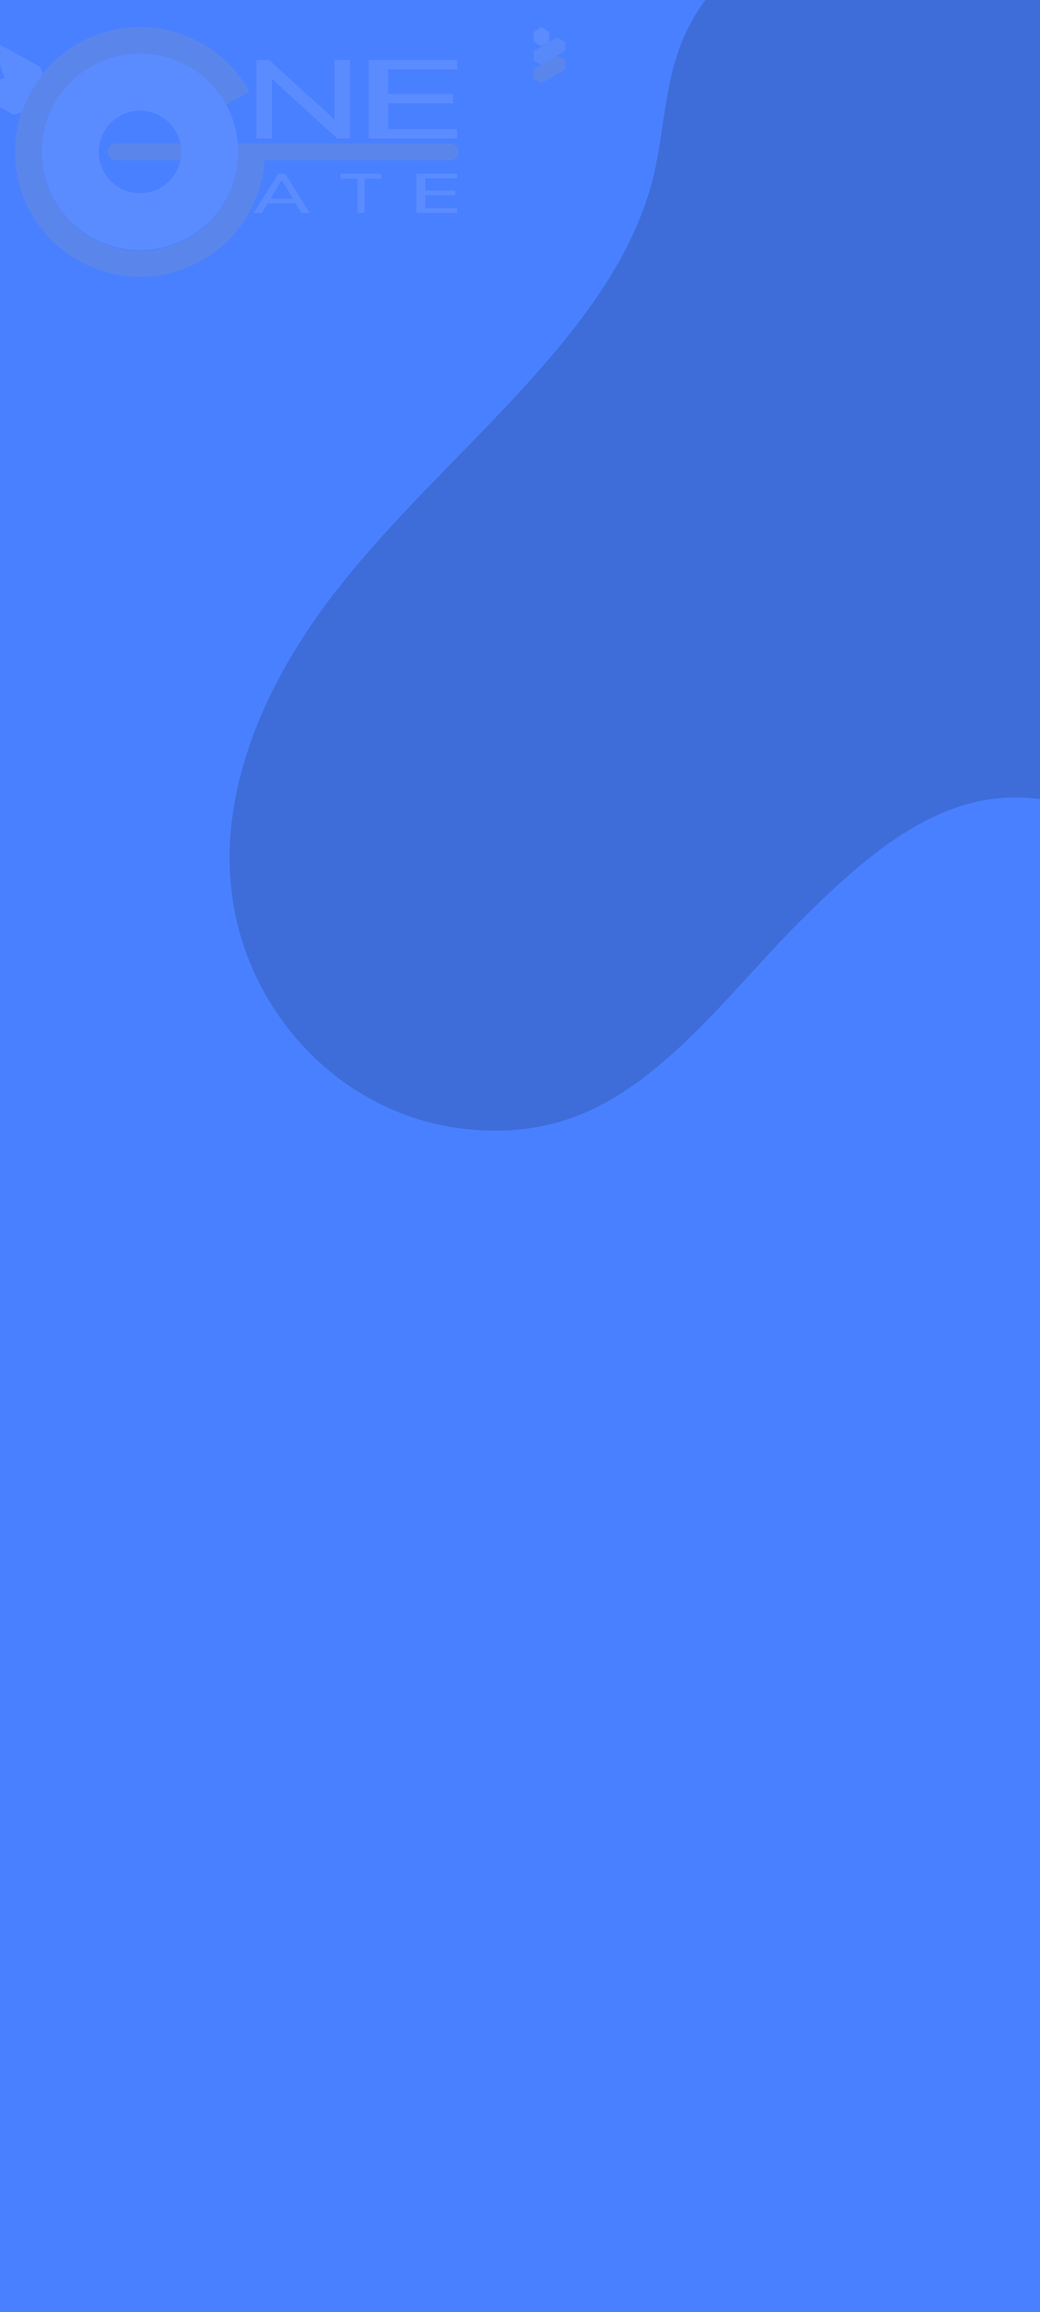
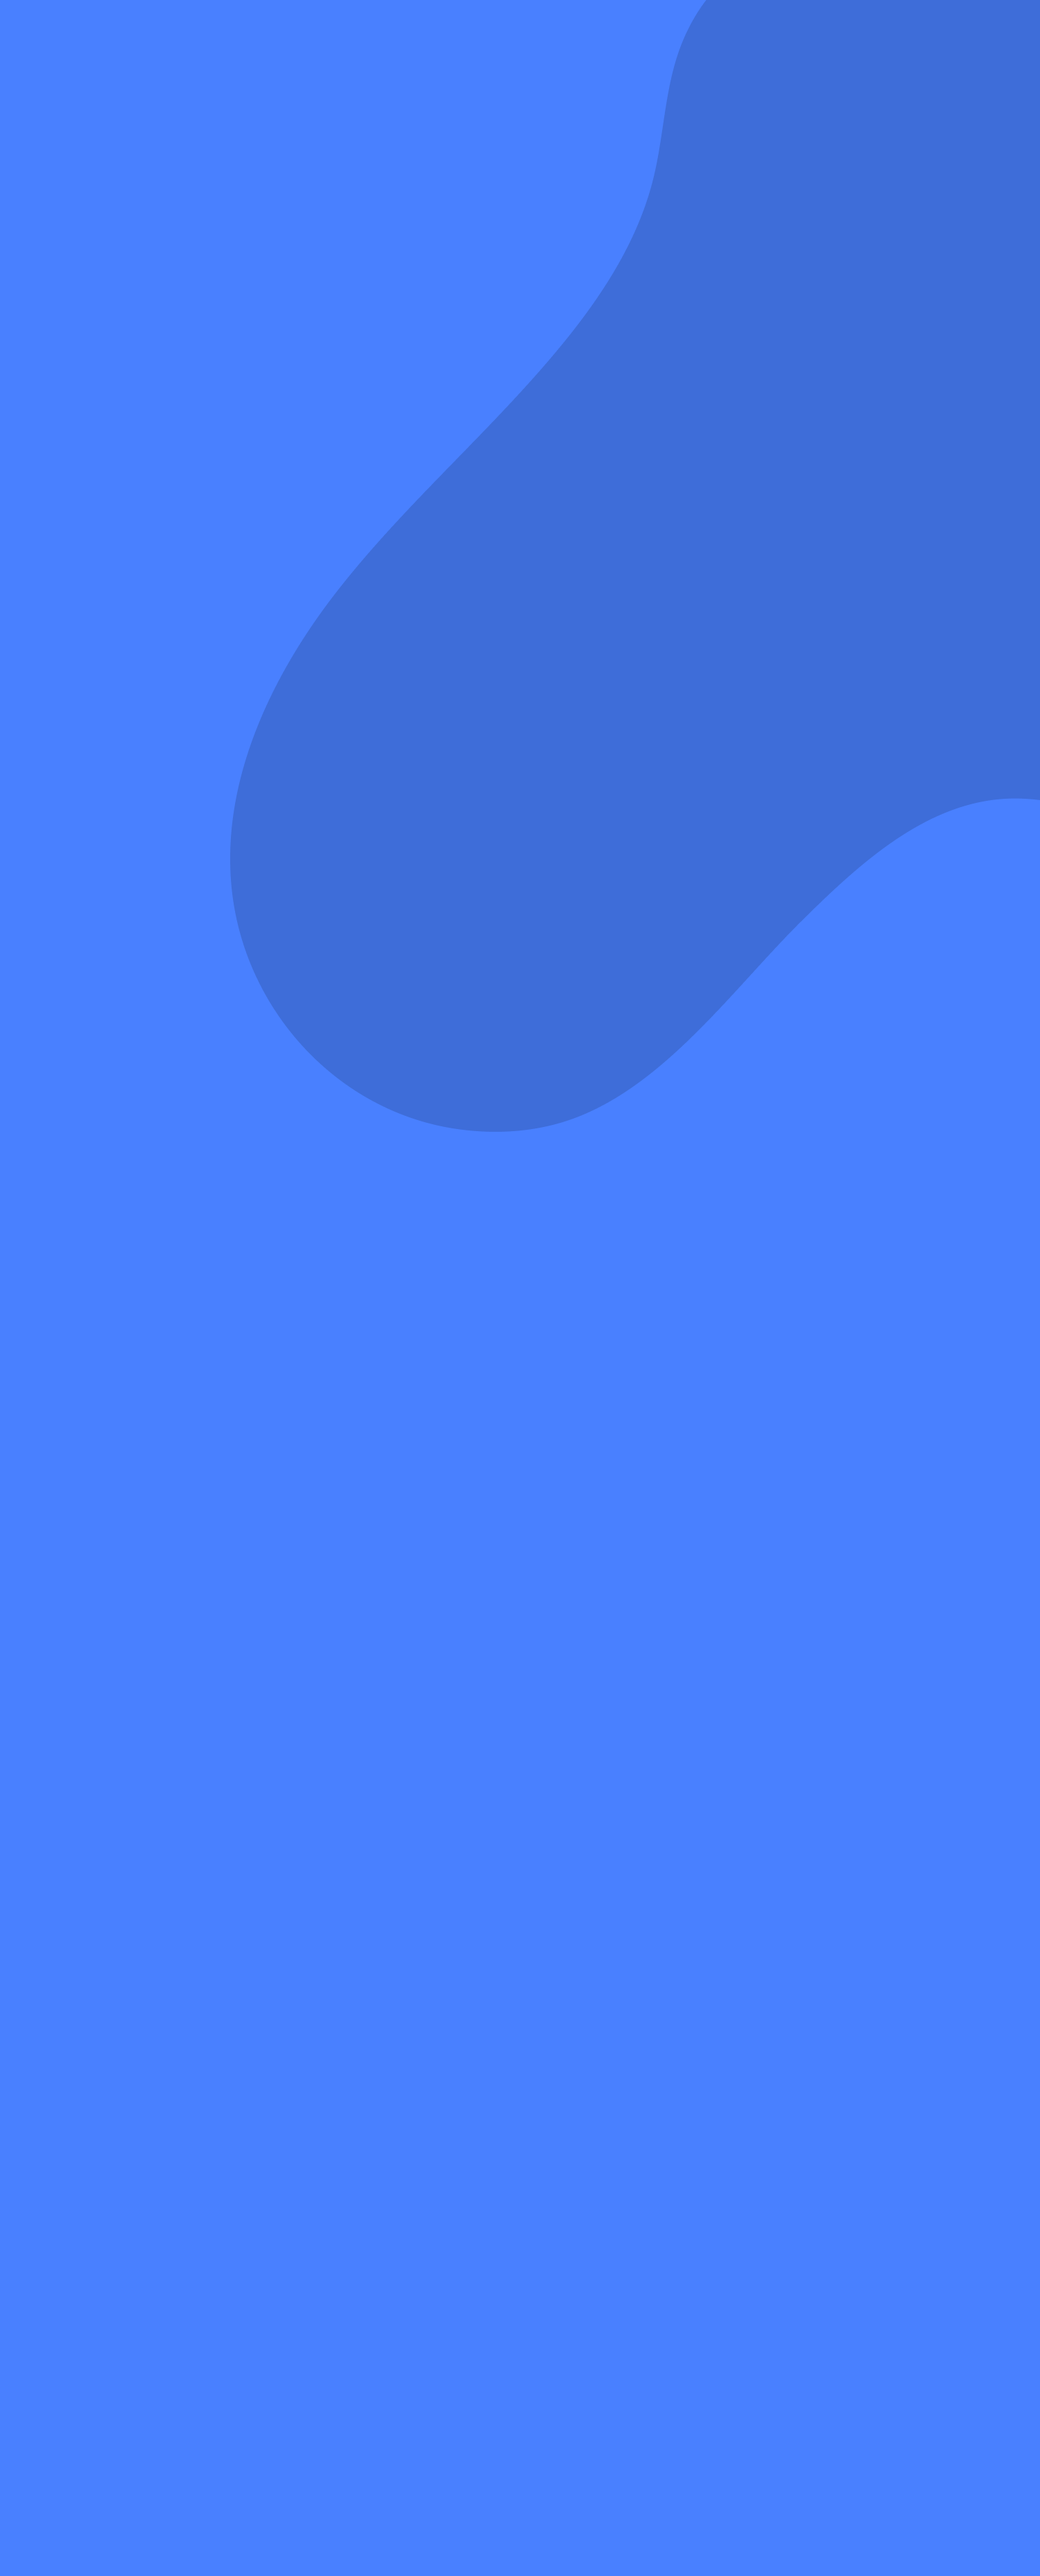
home home home

Changed region(s): [[0.2148, 0.0936, 1.0, 0.4992], [0.6137, 0.0624, 0.6444, 0.0936]]

diff --git a/lib/pages/home_page.dart b/lib/pages/home_page.dart
@@ -1,4 +1,5 @@
 import 'package:flutter/material.dart';
+import 'package:google_fonts/google_fonts.dart';
 
 import '../theme.dart';
 
@@ -13,7 +14,37 @@ class _HomePageState extends State<HomePage> {
   @override
   Widget build(BuildContext context) {
     Widget header() {
-      return Expanded(flex: 2, child: Container());
+      return Expanded(
+          flex: 2,
+          child: Container(
+            child: Column(
+              mainAxisAlignment: MainAxisAlignment.spaceBetween,
+              children: [
+                Stack(
+                  children: [
+                    Padding(
+                      padding: const EdgeInsets.only(top: 10.0),
+                      child: Image.asset(
+                        'assets/logo_inv.png',
+                        height: 95,
+                        width: 200,
+                      ),
+                    ),
+                    Column(
+                      children: [
+                        Text('User',
+                            style: whiteTextStyle.copyWith(
+                                fontSize: 20, fontWeight: reguler)),
+                        Text('Address',
+                            style: whiteTextStyle.copyWith(
+                                fontSize: 12, fontWeight: reguler))
+                      ],
+                    )
+                  ],
+                )
+              ],
+            ),
+          ));
     }
 
     Widget body() {

diff --git a/lib/pages/prelogin_page.dart b/lib/pages/prelogin_page.dart
@@ -61,7 +61,7 @@ class PreloginPage extends StatelessWidget {
                           padding: const EdgeInsets.only(top: 12.0),
                           child: Text(
                             'Log In',
-                            style: whiteTextStyle.copyWith(
+                            style: whiteRobotoTextStyle.copyWith(
                                 fontSize: 26, fontWeight: bold),
                           ),
                         ),
@@ -95,7 +95,7 @@ class PreloginPage extends StatelessWidget {
                               padding: const EdgeInsets.only(top: 12.0),
                               child: Text(
                                 'Register',
-                                style: whiteTextStyle.copyWith(
+                                style: whiteRobotoTextStyle.copyWith(
                                     fontSize: 26, fontWeight: bold),
                               ),
                             ),
